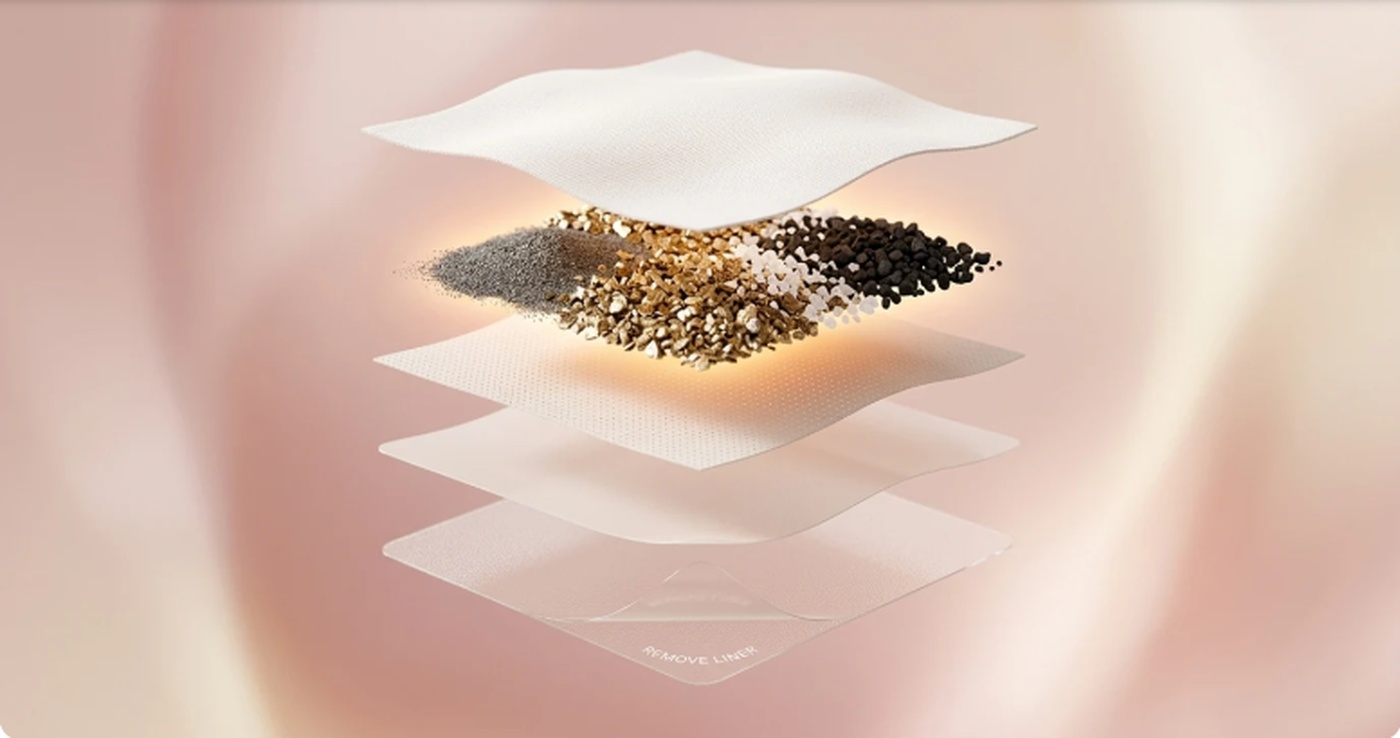
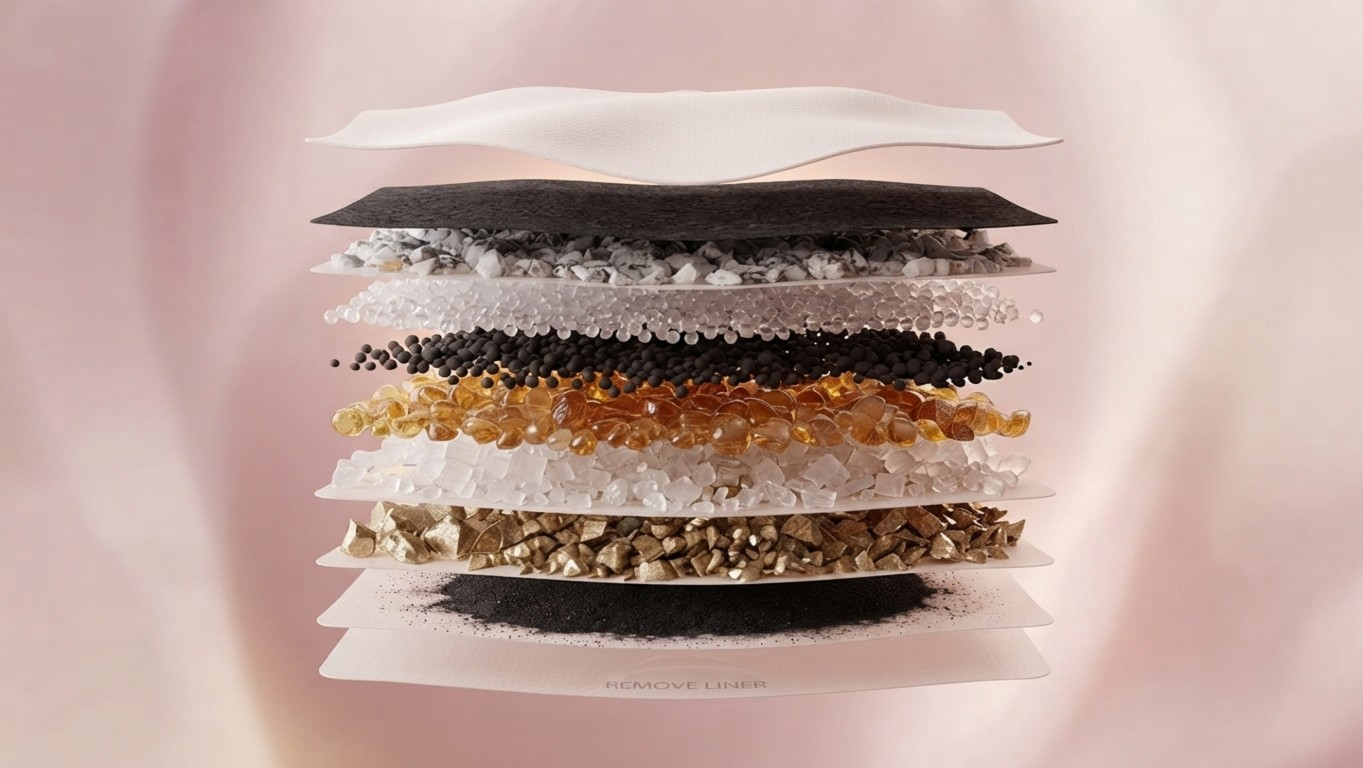
feat: add product detail page and homepage components along with brand asset images

diff --git a/client/src/pages/Home.jsx b/client/src/pages/Home.jsx
@@ -497,21 +497,84 @@ export default function Home() {
             </p>
           </div>
 
-          {/* Official Timeline Infographic */}
-          <div className="rounded-3xl bg-white p-4 sm:p-6 border-2 border-brand-primaryPink/30 shadow-lg max-w-5xl mx-auto overflow-hidden">
-            <img
-              src="/images/zeba-how-it-works-timeline.webp"
-              alt="Timeline of Thermal Heat Relief for Period Cramps"
-              width="1000"
-              height="560"
-              loading="lazy"
-              decoding="async"
-              onError={(e) => {
-                e.currentTarget.onerror = null;
-                e.currentTarget.src = '/images/zeba-how-it-works-timeline.jpg';
-              }}
-              className="w-full h-auto rounded-2xl object-cover shadow-sm"
-            />
+          {/* Timeline of Thermal Heat Relief Cards (Text-Based) */}
+          <div className="rounded-3xl bg-gradient-to-b from-white to-brand-softPink/40 p-6 sm:p-8 border-2 border-brand-primaryPink/30 shadow-lg max-w-5xl mx-auto space-y-6">
+            <div className="text-center space-y-1">
+              <h3 className="font-display font-black text-xl sm:text-2xl text-brand-deepPurple tracking-tight uppercase">
+                Timeline of Thermal Heat Relief
+              </h3>
+              <p className="text-xs sm:text-sm font-extrabold uppercase tracking-wider text-brand-brightPink">
+                For Period Cramps
+              </p>
+            </div>
+
+            <div className="grid grid-cols-1 md:grid-cols-3 gap-5 relative">
+              {/* Step 1 */}
+              <div className="relative p-6 rounded-2xl bg-white border border-brand-primaryPink/30 shadow-xs hover:shadow-md hover:border-brand-brightPink transition-all flex flex-col justify-between space-y-4">
+                <div className="space-y-2">
+                  <div className="flex items-center justify-between">
+                    <span className="inline-flex items-center gap-1.5 px-3 py-1 rounded-full bg-brand-softPink text-brand-brightPink font-bold text-xs">
+                      <Flame className="w-3.5 h-3.5" /> Phase 1
+                    </span>
+                    <span className="text-xs font-mono font-bold text-[#805A82]">0–15 Mins</span>
+                  </div>
+                  <h4 className="font-display font-extrabold text-base text-brand-deepPurple tracking-tight uppercase">
+                    Early Activation
+                  </h4>
+                  <p className="text-xs sm:text-sm text-[#805A82] leading-relaxed">
+                    Rapid warmth begins to penetrate, initiating circulation boost and initial muscle relaxation.
+                  </p>
+                </div>
+                <div className="pt-3 border-t border-brand-primaryPink/20 flex items-center gap-2 text-[11px] font-semibold text-brand-purple">
+                  <span className="w-2 h-2 rounded-full bg-brand-brightPink animate-pulse"></span>
+                  Thermal onset begins
+                </div>
+              </div>
+
+              {/* Step 2 */}
+              <div className="relative p-6 rounded-2xl bg-white border-2 border-brand-primaryPink/50 shadow-sm hover:shadow-md hover:border-brand-brightPink transition-all flex flex-col justify-between space-y-4">
+                <div className="space-y-2">
+                  <div className="flex items-center justify-between">
+                    <span className="inline-flex items-center gap-1.5 px-3 py-1 rounded-full bg-brand-primaryPink/30 text-brand-deepPurple font-bold text-xs">
+                      <Sparkles className="w-3.5 h-3.5 text-brand-brightPink" /> Phase 2
+                    </span>
+                    <span className="text-xs font-mono font-bold text-[#805A82]">1 Hour</span>
+                  </div>
+                  <h4 className="font-display font-extrabold text-base text-brand-deepPurple tracking-tight uppercase">
+                    Peak Soothing Comfort
+                  </h4>
+                  <p className="text-xs sm:text-sm text-[#805A82] leading-relaxed">
+                    Maximum heat intensity reached for deep muscle relief. Significant reduction in cramp discomfort and a feeling of calm.
+                  </p>
+                </div>
+                <div className="pt-3 border-t border-brand-primaryPink/20 flex items-center gap-2 text-[11px] font-semibold text-brand-brightPink">
+                  <span className="w-2 h-2 rounded-full bg-brand-brightPink"></span>
+                  Max therapeutic relief
+                </div>
+              </div>
+
+              {/* Step 3 */}
+              <div className="relative p-6 rounded-2xl bg-white border border-brand-primaryPink/30 shadow-xs hover:shadow-md hover:border-brand-brightPink transition-all flex flex-col justify-between space-y-4">
+                <div className="space-y-2">
+                  <div className="flex items-center justify-between">
+                    <span className="inline-flex items-center gap-1.5 px-3 py-1 rounded-full bg-[#FDF5D6] text-amber-800 font-bold text-xs">
+                      <Clock className="w-3.5 h-3.5 text-brand-gold" /> Phase 3
+                    </span>
+                    <span className="text-xs font-mono font-bold text-[#805A82]">Up to 8 Hours</span>
+                  </div>
+                  <h4 className="font-display font-extrabold text-base text-brand-deepPurple tracking-tight uppercase">
+                    Long-Lasting Continuous Warmth
+                  </h4>
+                  <p className="text-xs sm:text-sm text-[#805A82] leading-relaxed">
+                    Consistent, gentle warmth maintained for up to 8 hours. Prolonged comfort and continuous relief from period cramps.
+                  </p>
+                </div>
+                <div className="pt-3 border-t border-brand-primaryPink/20 flex items-center gap-2 text-[11px] font-semibold text-emerald-700">
+                  <span className="w-2 h-2 rounded-full bg-emerald-500"></span>
+                  All-day soothing coverage
+                </div>
+              </div>
+            </div>
           </div>
 
           {/* Interactive Stepper Navigation */}
@@ -692,7 +755,7 @@ export default function Home() {
           {/* Official Ingredients Infographic */}
           <div className="rounded-3xl bg-white p-4 sm:p-6 border-2 border-brand-primaryPink/30 shadow-lg max-w-5xl mx-auto overflow-hidden">
             <img
-              src="/images/zeba-whats-inside-ingredients.webp?v=3"
+              src="/images/zeba-whats-inside-ingredients.jpg?v=4"
               alt="ZEBA What's Inside Pure Natural Goodness Ingredients"
               width="1000"
               height="600"
@@ -700,7 +763,7 @@ export default function Home() {
               decoding="async"
               onError={(e) => {
                 e.currentTarget.onerror = null;
-                e.currentTarget.src = '/images/zeba-whats-inside-ingredients.jpg?v=3';
+                e.currentTarget.src = '/images/zeba-whats-inside-ingredients.png?v=4';
               }}
               className="w-full h-auto rounded-2xl object-cover shadow-sm"
             />
@@ -838,22 +901,7 @@ export default function Home() {
                 </p>
               </div>
 
-              {/* Official Trust & Guarantee Infographic */}
-              <div className="rounded-3xl bg-white p-3 sm:p-4 border-2 border-brand-primaryPink/30 shadow-lg max-w-3xl mx-auto overflow-hidden">
-                <img
-                  src="/images/zeba-got-questions-faq.webp"
-                  alt="ZEBA 100% Satisfaction & Safety Badges"
-                  width="900"
-                  height="500"
-                  loading="lazy"
-                  decoding="async"
-                  onError={(e) => {
-                    e.currentTarget.onerror = null;
-                    e.currentTarget.src = '/images/zeba-got-questions-faq.jpg';
-                  }}
-                  className="w-full h-auto rounded-2xl object-cover"
-                />
-              </div>
+
 
               {/* Search Bar */}
               <div className="relative max-w-2xl mx-auto">

diff --git a/client/src/pages/ProductDetail.jsx b/client/src/pages/ProductDetail.jsx
@@ -160,9 +160,7 @@ export default function ProductDetail() {
   const allImages = [
     ...baseImages,
     '/images/zeba-how-to-use-guide.png',
-    '/images/zeba-how-it-works-timeline.webp',
-    '/images/zeba-whats-inside-ingredients.webp',
-    '/images/zeba-got-questions-faq.webp'
+    '/images/zeba-whats-inside-ingredients.jpg'
   ];
 
   const currentPrice = parseFloat(selectedProduct.price) || 0;
@@ -666,40 +664,59 @@ export default function ProductDetail() {
             {/* TAB 2: TIMELINE */}
             {activeTab === 'timeline' && (
               <div className="space-y-6 animate-fade-in">
-                <div className="flex flex-col lg:flex-row items-center gap-8">
-                  <div className="w-full lg:w-1/2 rounded-2xl overflow-hidden border border-brand-primaryPink/25 shadow-sm">
-                    <img
-                      src="/images/zeba-how-it-works-timeline.webp"
-                      alt="ZEBA How It Works Over Time"
-                      onError={(e) => {
-                        e.currentTarget.onerror = null;
-                        e.currentTarget.src = '/images/zeba-how-it-works-timeline.jpg';
-                      }}
-                      className="w-full h-auto object-cover"
-                    />
-                  </div>
-                  <div className="w-full lg:w-1/2 space-y-4">
-                    <h3 className="font-display font-extrabold text-xl text-brand-deepPurple">
-                      Relief Progression Over Time
-                    </h3>
-                    <div className="grid grid-cols-2 gap-3 text-xs">
-                      <div className="p-3.5 rounded-xl bg-white border border-brand-primaryPink/30 text-center">
-                        <strong className="text-brand-deepPurple font-mono font-bold block mb-1">Minute 0</strong>
-                        <span className="text-[#805A82]">Apply patch to underwear</span>
-                      </div>
-                      <div className="p-3.5 rounded-xl bg-[#FDF5D6] border border-brand-gold/40 text-center">
-                        <strong className="text-brand-deepPurple font-mono font-bold block mb-1">Minute 15</strong>
-                        <span className="text-[#805A82]">Warmth kicks in & relief begins</span>
-                      </div>
-                      <div className="p-3.5 rounded-xl bg-brand-softPink border border-brand-primaryPink/30 text-center">
-                        <strong className="text-brand-brightPink font-mono font-bold block mb-1">Hour 1</strong>
-                        <span className="text-[#805A82]">Pain drops from a 10 down to a 2</span>
-                      </div>
-                      <div className="p-3.5 rounded-xl bg-emerald-50 border border-emerald-200 text-center">
-                        <strong className="text-emerald-800 font-mono font-bold block mb-1">Hour 8</strong>
-                        <span className="text-slate-600">Lasts for a full day</span>
-                      </div>
+                <div className="space-y-1 text-center max-w-xl mx-auto">
+                  <h3 className="font-display font-extrabold text-xl sm:text-2xl text-brand-deepPurple">
+                    Timeline of Thermal Heat Relief
+                  </h3>
+                  <p className="text-xs sm:text-sm text-[#805A82]">
+                    Continuous natural warmth designed to soothe cramp discomfort over 8 hours
+                  </p>
+                </div>
+
+                <div className="grid grid-cols-1 md:grid-cols-3 gap-4">
+                  <div className="p-5 rounded-2xl bg-white border border-brand-primaryPink/30 shadow-xs space-y-3">
+                    <div className="flex items-center justify-between">
+                      <span className="inline-flex items-center gap-1.5 px-2.5 py-1 rounded-full bg-brand-softPink text-brand-brightPink font-bold text-xs">
+                        <Flame className="w-3.5 h-3.5" /> Phase 1
+                      </span>
+                      <span className="text-xs font-mono font-bold text-[#805A82]">0–15 Mins</span>
                     </div>
+                    <h4 className="font-display font-bold text-sm text-brand-deepPurple uppercase">
+                      Early Activation
+                    </h4>
+                    <p className="text-xs text-[#805A82] leading-relaxed">
+                      Rapid warmth begins to penetrate, initiating circulation boost and initial muscle relaxation.
+                    </p>
+                  </div>
+
+                  <div className="p-5 rounded-2xl bg-white border-2 border-brand-primaryPink/50 shadow-sm space-y-3">
+                    <div className="flex items-center justify-between">
+                      <span className="inline-flex items-center gap-1.5 px-2.5 py-1 rounded-full bg-brand-primaryPink/30 text-brand-deepPurple font-bold text-xs">
+                        <Zap className="w-3.5 h-3.5 text-brand-brightPink" /> Phase 2
+                      </span>
+                      <span className="text-xs font-mono font-bold text-[#805A82]">1 Hour</span>
+                    </div>
+                    <h4 className="font-display font-bold text-sm text-brand-deepPurple uppercase">
+                      Peak Soothing Comfort
+                    </h4>
+                    <p className="text-xs text-[#805A82] leading-relaxed">
+                      Maximum heat intensity reached for deep muscle relief. Significant reduction in cramp discomfort and a feeling of calm.
+                    </p>
+                  </div>
+
+                  <div className="p-5 rounded-2xl bg-white border border-brand-primaryPink/30 shadow-xs space-y-3">
+                    <div className="flex items-center justify-between">
+                      <span className="inline-flex items-center gap-1.5 px-2.5 py-1 rounded-full bg-[#FDF5D6] text-amber-800 font-bold text-xs">
+                        <Clock className="w-3.5 h-3.5 text-brand-gold" /> Phase 3
+                      </span>
+                      <span className="text-xs font-mono font-bold text-[#805A82]">Up to 8 Hours</span>
+                    </div>
+                    <h4 className="font-display font-bold text-sm text-brand-deepPurple uppercase">
+                      Continuous Warmth
+                    </h4>
+                    <p className="text-xs text-[#805A82] leading-relaxed">
+                      Consistent, gentle warmth maintained for up to 8 hours. Prolonged comfort and continuous relief from period cramps.
+                    </p>
                   </div>
                 </div>
               </div>
@@ -711,11 +728,11 @@ export default function ProductDetail() {
                 <div className="flex flex-col lg:flex-row items-center gap-8">
                   <div className="w-full lg:w-1/2 rounded-2xl overflow-hidden border border-brand-primaryPink/25 shadow-sm">
                     <img
-                      src="/images/zeba-whats-inside-ingredients.webp?v=3"
+                      src="/images/zeba-whats-inside-ingredients.jpg?v=4"
                       alt="ZEBA What's Inside Pure Natural Goodness"
                       onError={(e) => {
                         e.currentTarget.onerror = null;
-                        e.currentTarget.src = '/images/zeba-whats-inside-ingredients.jpg?v=3';
+                        e.currentTarget.src = '/images/zeba-whats-inside-ingredients.png?v=4';
                       }}
                       className="w-full h-auto object-cover"
                     />
